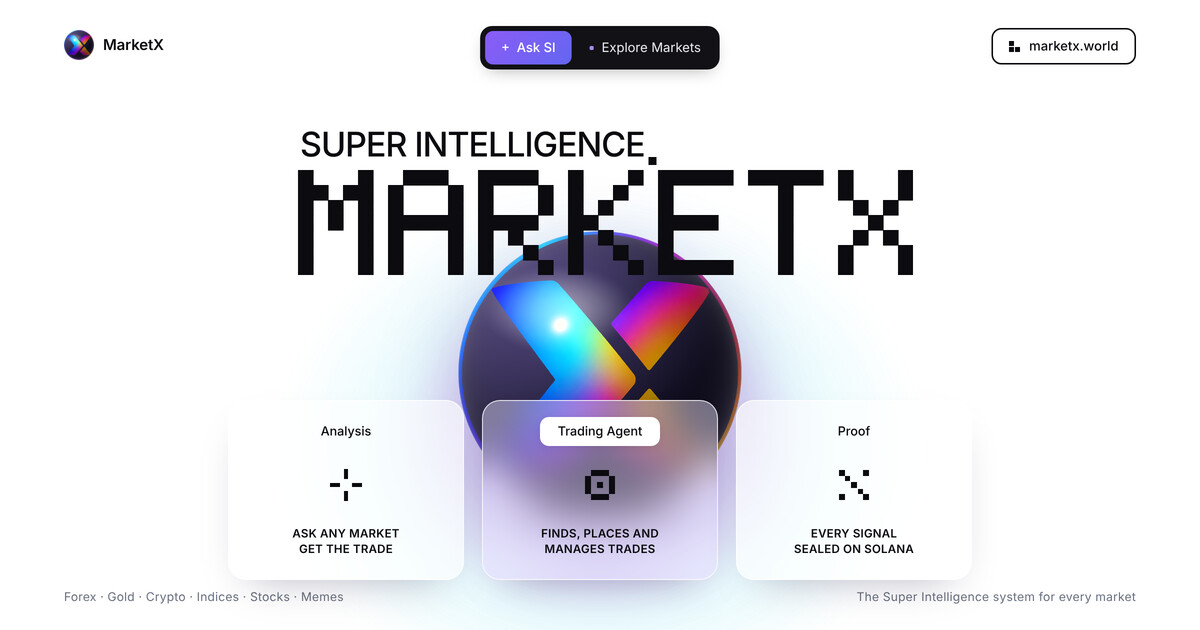
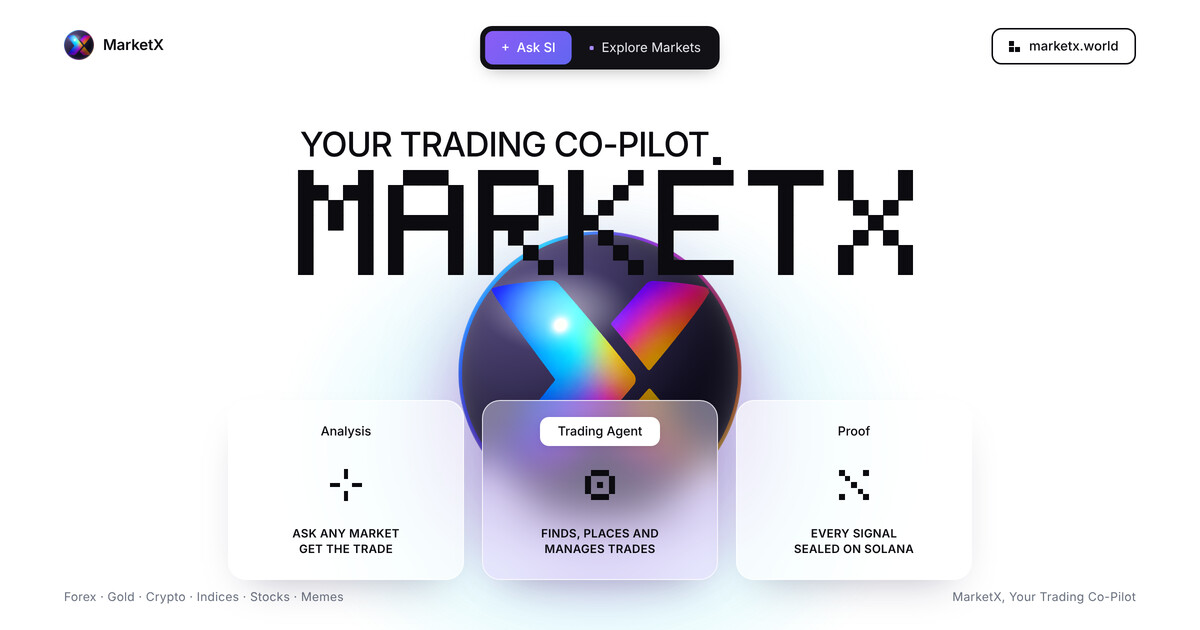
Link preview: 'Your Trading Co-Pilot'; every video now ends on 'MarketX, Your Trading Co-Pilot'
Claude-Session: https://claude.ai/code/session_01PJQQVzfiV8YcFFvm18W9N5

Changed region(s): [[0.2467, 0.2111, 0.5858, 0.2714], [0.7092, 0.9349, 0.9558, 0.9651]]

diff --git a/index.html b/index.html
@@ -32,7 +32,7 @@
     <meta name="twitter:site" content="@_MarketX" />
     <meta name="twitter:creator" content="@_MarketX" />
     <meta name="twitter:image" content="https://marketx.world/brand/marketx-share-si.jpg" />
-    <meta name="twitter:image:alt" content="MarketX, Super Intelligence: the MarketX title in pixel letters over the glossy MarketX logo, with three cards: Analysis (ask any market, get the trade), Trading Agent (finds, places and manages trades) and Proof (every signal sealed on Solana)." />
+    <meta name="twitter:image:alt" content="MarketX, Your Trading Co-Pilot: the MarketX title in pixel letters over the glossy MarketX logo, with three cards: Analysis (ask any market, get the trade), Trading Agent (finds, places and manages trades) and Proof (every signal sealed on Solana)." />
 
     <!-- Browser & Platform UI Theme -->
     <meta name="theme-color" content="#09090b" />
@@ -55,7 +55,7 @@
     <meta property="og:image:type" content="image/jpeg" />
     <meta property="og:image:width" content="1200" />
     <meta property="og:image:height" content="630" />
-    <meta property="og:image:alt" content="MarketX, Super Intelligence: the MarketX title in pixel letters over the glossy MarketX logo, with three cards: Analysis (ask any market, get the trade), Trading Agent (finds, places and manages trades) and Proof (every signal sealed on Solana)." />
+    <meta property="og:image:alt" content="MarketX, Your Trading Co-Pilot: the MarketX title in pixel letters over the glossy MarketX logo, with three cards: Analysis (ask any market, get the trade), Trading Agent (finds, places and manages trades) and Proof (every signal sealed on Solana)." />
 
     <!-- Web Fonts & Preconnects -->
     <link rel="dns-prefetch" href="https://fonts.googleapis.com">

diff --git a/CLAUDE.md b/CLAUDE.md
@@ -351,13 +351,13 @@
 - SEO (`index.html`): link previews use `public/brand/marketx-share-si.jpg` (og:image + twitter:image + JSON-LD, with size/alt tags;
   `marketx-og-1200x630.jpg` and `marketx-share-2026.jpg` hold the same picture for old links; a new image gets a NEW file name so social caches refetch;
   design (owner-specified, Oct 2026, styled on the owner's studio template): white page, top nav (logo, dark pill "Ask SI" / "Explore Markets", outlined
-  marketx.world), "SUPER INTELLIGENCE" over pixel-block "MARKETX", the glossy logo ball behind it, three frosted cards Analysis / Trading Agent / Proof;
+  marketx.world), "YOUR TRADING CO-PILOT" over pixel-block "MARKETX", the glossy logo ball behind it, three frosted cards Analysis / Trading Agent / Proof, footer "MarketX, Your Trading Co-Pilot";
   source HTML rendered with headless Chromium at 2x then downscaled);
   JSON-LD is an @graph of Organization (logo, sameAs X), WebSite and SoftwareApplication; `public/site.webmanifest` lists the icons.
 - Videos (owner-specified): every MarketX video shows the logo SPINNING, never static. Render it with
   `python3 brand/logo-spin.py OUT_DIR [--size N] [--frames 120] [--transparent]` (seamless loop, one turn per 120 frames).
-  Every video, whatever it is about, ENDS with the line "MarketX, the Super Intelligence system for every market" (on screen,
-  and spoken when the video has a voice-over) as its final card.
+  Every video, whatever it is about, ENDS with the line "MarketX, Your Trading Co-Pilot" (owner-specified, Oct 2026, replaces the
+  old "the Super Intelligence system for every market" line; on screen, and spoken when the video has a voice-over) as its final card.
   Owner-specified for every new video: the site is always captured in LIGHT mode; every phone/device is shown whole (all
   four sides, frame and body in view, never cropped by the video edge); the music is always in the style of the owner's
   chosen ad track (the Epidemic Sound track used in the MarketX ad, ~101 BPM, a quiet build-up then a bass drop), with
